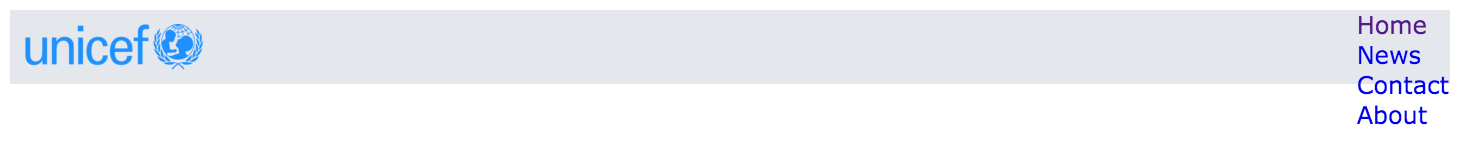
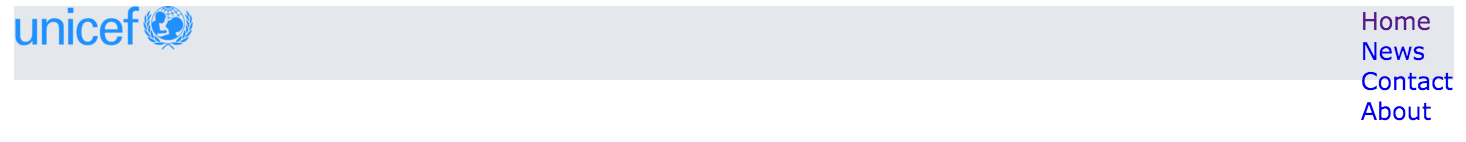
updated

diff --git a/_posts/2016-01-06-CSS3-Layout.md b/_posts/2016-01-06-CSS3-Layout.md
@@ -112,6 +112,8 @@ nav {
 }
 ```
 
+![layout-practice-2](/img/layout-practice-2.png)
+
 logo image를 수직 정렬한다.
 
 ```html
@@ -130,7 +132,7 @@ a tag는 inline 요소이므로 margin을 정의하기 위해서 `display: block
 }
 ```
 
-![layout-practice-2](/img/layout-practice-2.png)
+![layout-practice-3](/img/layout-practice-3.png)
 
 수직 정렬되어 있는 Navigation bar를 수평 정렬한다. ul의 높이를 header의 높이와 같게 하고 block 요소인 li에 `display: inline-block;`를 설정하여 inline 요소와 같이 가로로 정렬케 한다.
 
@@ -143,7 +145,7 @@ nav > ul > li {
 }
 ```
 
-![layout-practice-3](/img/layout-practice-3.png)
+![layout-practice-4](/img/layout-practice-4.png)
 
 ```css
 nav > ul > li > a {
@@ -156,7 +158,7 @@ nav > ul > li > a {
 
 
 
-![layout-practice-4](/img/layout-practice-4.png)
+![layout-practice-5](/img/layout-practice-5.png)
 
 
 ## 1.2 2-Column Layout
